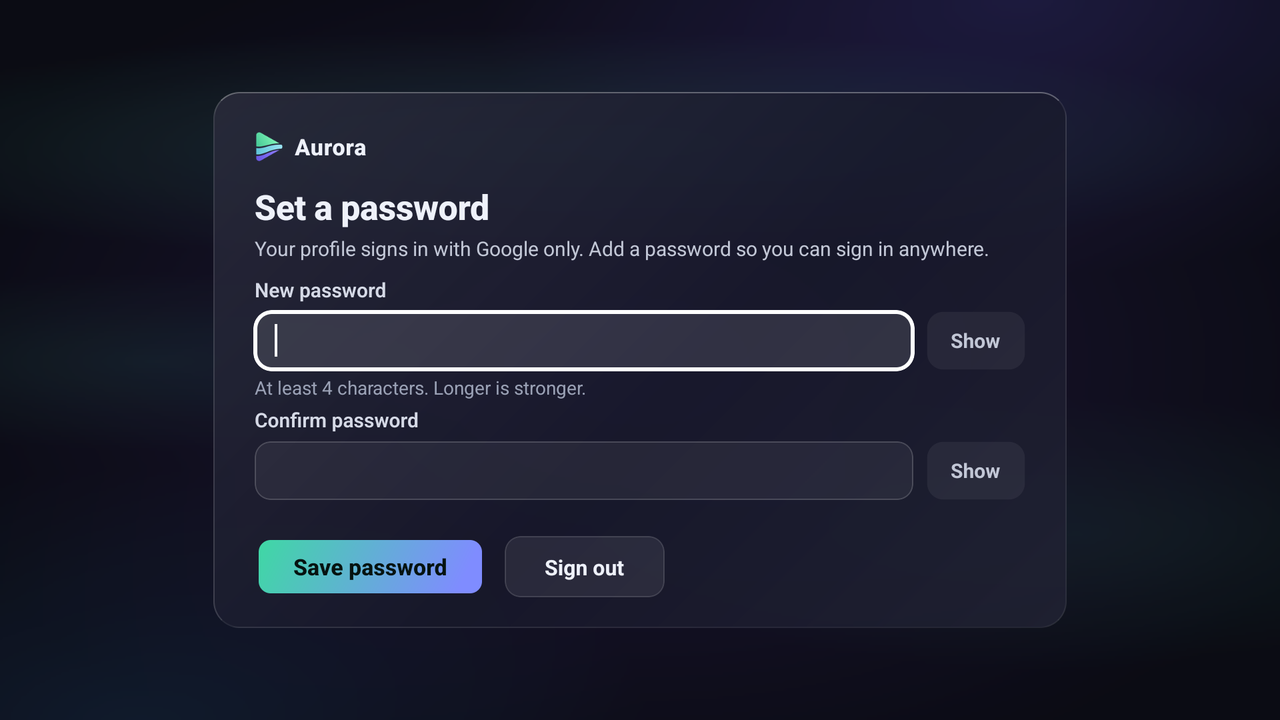
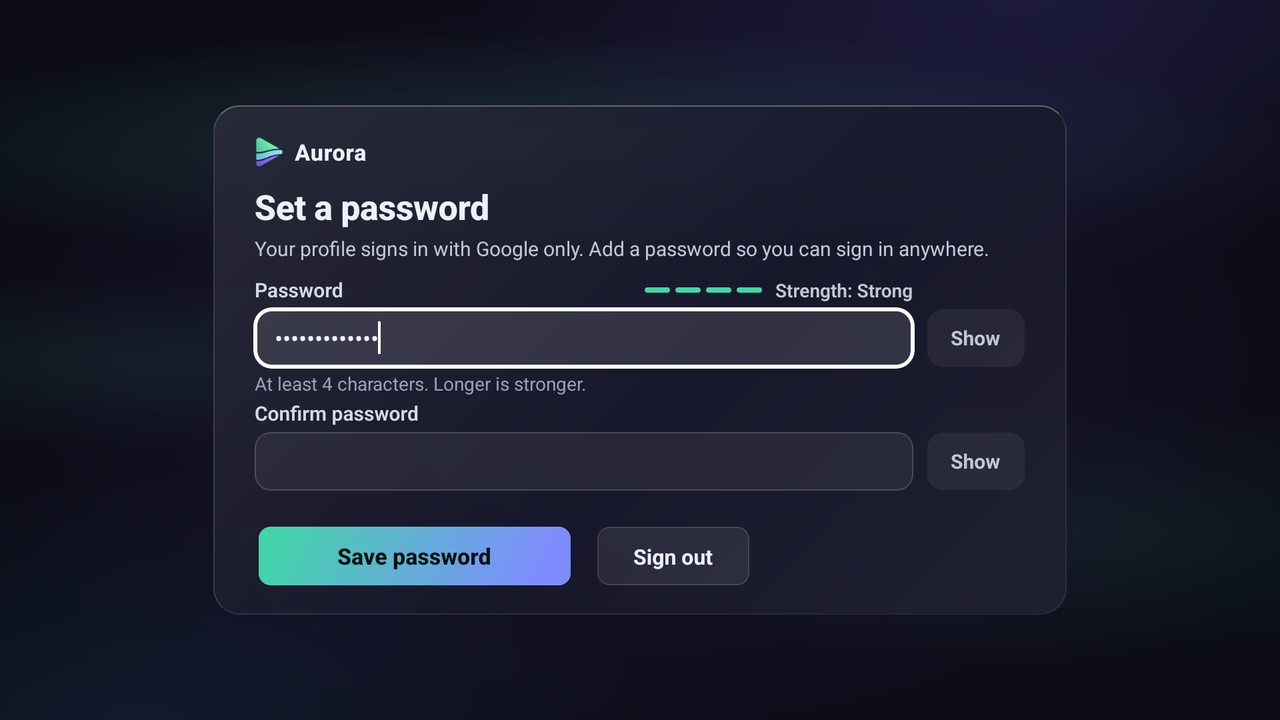
TV 5.8.2: sign-in polish after the design audit — inside the 5% title-safe area, one column of reset choices, "Strength: …" on the label line, equal button heights, "Shown on your profile.", Set a password labels its field Password; DOWN from the switch lands on the field (Mi TV checked)

diff --git a/tv-native/src/screens/authKit.tsx b/tv-native/src/screens/authKit.tsx
@@ -26,6 +26,7 @@ import {
   Text,
   TextInput,
   TextInputProps,
+  TVFocusGuideView,
   View,
   useWindowDimensions,
 } from 'react-native';
@@ -212,7 +213,9 @@ export function AuthShell({children, top, width = 840}: {children: React.ReactNo
 }
 
 /** "Sign in · Request access": two tabs; the lit one is the page you are on. */
-export function Switch({value, onChange}: {value: 'signin' | 'request'; onChange: (v: 'signin' | 'request') => void}) {
+/** `overFields`: the switch ends where the fields' boxes end (not over the
+ *  Show buttons), so DOWN from a tab lands on a field, not on Show (Mi TV). */
+export function Switch({value, onChange, overFields}: {value: 'signin' | 'request'; onChange: (v: 'signin' | 'request') => void; overFields?: boolean}) {
   const reduced = useReducedMotion();
   const tab = (k: 'signin' | 'request', label: string) => {
     const on = value === k;
@@ -231,7 +234,7 @@ export function Switch({value, onChange}: {value: 'signin' | 'request'; onChange
     );
   };
   return (
-    <View style={s.tabs} accessibilityRole="tablist">
+    <View style={[s.tabs, overFields && s.tabsOverFields]} accessibilityRole="tablist">
       {tab('signin', 'Sign in')}
       {tab('request', 'Request access')}
     </View>
@@ -264,8 +267,10 @@ type FieldProps = Omit<TextInputProps, 'ref'> & {
   help?: string | null;
   error?: string | null;
   secret?: boolean;
-  /** under the field, before the help (the strength hint) */
+  /** under the field, before the help */
   below?: React.ReactNode;
+  /** at the end of the label's row, over the box (the strength hint): costs no height */
+  aside?: React.ReactNode;
   /** the field this screen opens on: focused quietly once it is drawn */
   first?: boolean;
   /** the field's nativeID, for QA tools (fields are not counted controls) */
@@ -275,10 +280,16 @@ type FieldProps = Omit<TextInputProps, 'ref'> & {
 /** A labelled field. Password fields carry Show / Hide, a button of its own
  *  (RIGHT from the field). What was typed is never cleared by an error. */
 export const Field = forwardRef<FieldHandle, FieldProps>(function Field(
-  {label, help, error, secret, below, first, qaId, onFocus, onBlur, style, ...rest},
+  {label, help, error, secret, below, aside, first, qaId, onFocus, onBlur, style, ...rest},
   ref,
 ) {
-  const input = useRef<TextInput>(null);
+  const input = useRef<TextInput | null>(null);
+  // the field's input as a focus-guide destination (below)
+  const [inputNode, setInputNode] = useState<TextInput | null>(null);
+  const setInput = useCallback((v: TextInput | null) => {
+    input.current = v;
+    setInputNode(v);
+  }, []);
   const [on, setOn] = useState(false);
   const [shown, setShown] = useState(false);
   // false only for a moment: while a quiet focus lands (react-native-tvos
@@ -326,15 +337,22 @@ export const Field = forwardRef<FieldHandle, FieldProps>(function Field(
   const lift = useContext(LiftContext);
   const row = useRef<View>(null);
   return (
-    <View style={s.field}>
-      <Text style={s.label}>{label}</Text>
+    // A password field's row has two stops (the box, then Show). Coming from
+    // above or below, focus goes to the BOX: the guide hands it there, so DOWN
+    // from the tabs or the field above never lands on Show (Mi TV). LEFT /
+    // RIGHT inside the row move between the two as before.
+    <TVFocusGuideView style={s.field} destinations={secret && inputNode ? [inputNode] : undefined}>
+      <View style={[s.labelRow, secret && s.labelRowSecret]}>
+        <Text style={s.label}>{label}</Text>
+        {aside}
+      </View>
       <View style={s.boxRow} ref={row} collapsable={false}>
         <View style={[s.box, on && s.boxOn]}>
           {/* the focus ring (and the error edge) drawn OVER the box's own 1dp edge,
               so gaining focus never moves anything */}
           {on || error ? <View pointerEvents="none" style={[s.ringOver, !on && s.ringErr]} /> : null}
           <TextInput
-            ref={input}
+            ref={setInput}
             placeholderTextColor="rgba(154,161,181,0.75)"
             selectionColor="#8b7bff"
             cursorColor="#ffffff"
@@ -377,7 +395,7 @@ export const Field = forwardRef<FieldHandle, FieldProps>(function Field(
       <Text style={[s.help, !!error && s.err]} accessibilityLiveRegion={error ? 'polite' : 'none'} numberOfLines={2}>
         {note}
       </Text>
-    </View>
+    </TVFocusGuideView>
   );
 });
 
@@ -393,7 +411,7 @@ export function Strength({pw, personal}: {pw: string; personal?: Array<string | 
           <View key={i} style={[s.bar, i <= st.score && {backgroundColor: STRENGTH_COLORS[st.score]}]} />
         ))}
       </View>
-      <Text style={[s.meterText, {color: st.score <= 1 ? A.error : A.dim}]}>{st.label}</Text>
+      <Text style={[s.meterText, {color: st.score <= 1 ? A.error : A.dim}]}>{`Strength: ${st.label}`}</Text>
     </View>
   );
 }
@@ -442,7 +460,7 @@ export const MainButton = forwardRef<View, BtnProps & {claim?: string | null}>(f
       hasTVPreferredFocus={useMountValue(!!first)}
       accessibilityLabel={busy && busyLabel ? busyLabel : label}
       onPress={() => !busy && onPress()}
-      style={[s.main, grow && s.grow, busy && s.busy]}>
+      style={[s.btn, s.mainW, grow && s.grow, busy && s.busy]}>
       {/* the sweep on its own layer, inside the reserved ring border: drawn on the
           button itself it repeats into that border (a stripe at each end, Mi TV) */}
       <View style={s.mainFill} pointerEvents="none" />
@@ -468,7 +486,8 @@ export const PlainButton = forwardRef<View, BtnProps>(function PlainButton({labe
       hasTVPreferredFocus={useMountValue(!!first)}
       accessibilityLabel={label}
       onPress={() => !busy && onPress()}
-      style={[s.plain, grow && s.grow, busy && s.busy]}>
+      style={[s.btn, s.plainW, grow && s.grow, busy && s.busy]}>
+      <View style={[s.fill, s.plainFill]} pointerEvents="none" />
       <View style={s.btnInner}>
         {busy ? <ActivityIndicator color={A.text} size="small" /> : null}
         <Text style={s.plainText} numberOfLines={1}>
@@ -502,7 +521,11 @@ export const GoogleButton = forwardRef<View, BtnProps>(function GoogleButton({la
       hasTVPreferredFocus={useMountValue(!!first)}
       accessibilityLabel={label}
       onPress={() => !busy && onPress()}
-      style={[s.google, grow && s.grow, busy && s.busy]}>
+      style={[s.btn, s.googleW, grow && s.grow, busy && s.busy]}>
+      {/* Google's fill and 1dp edge on their own layer, inside the reserved ring
+          border: set on the button they replaced that border, and the button
+          came out 4dp shorter than Sign in beside it */}
+      <View style={[s.fill, s.googleFill]} pointerEvents="none" />
       <View style={s.btnInner}>
         {busy ? <ActivityIndicator color="#E3E3E3" size="small" /> : <GoogleG />}
         <Text style={s.googleText} numberOfLines={1}>
@@ -625,13 +648,13 @@ const s = StyleSheet.create({
   // calmer and lower: the sky dimmed a little, so the panel is what you see
   calm: {position: 'absolute', top: 0, left: 0, right: 0, bottom: 0, backgroundColor: 'rgba(8,9,16,0.12)'},
   scroll: {flex: 1},
-  scrollBody: {flexGrow: 1, justifyContent: 'center', alignItems: 'center', paddingHorizontal: 48, paddingVertical: 16},
+  scrollBody: {flexGrow: 1, justifyContent: 'center', alignItems: 'center', paddingHorizontal: 48, paddingVertical: 28}, // 5% title-safe top and bottom (27dp of 540)
   panel: {
     width: '100%',
     borderRadius: R.panel,
     paddingHorizontal: 30,
-    paddingTop: 20,
-    paddingBottom: 22,
+    paddingTop: 16,
+    paddingBottom: 18,
     backgroundColor: A.panel,
     experimental_backgroundImage: G_FILL,
     borderWidth: 1,
@@ -640,12 +663,13 @@ const s = StyleSheet.create({
     borderRightColor: 'rgba(255,255,255,0.07)',
     borderBottomColor: 'rgba(255,255,255,0.06)',
   },
-  head: {flexDirection: 'row', alignItems: 'center', justifyContent: 'space-between', marginBottom: 10, minHeight: 40},
+  head: {flexDirection: 'row', alignItems: 'center', justifyContent: 'space-between', marginBottom: 8, minHeight: 36},
   brand: {flexDirection: 'row', alignItems: 'center', gap: 8},
   beam: {width: 22, height: 22},
   brandText: {color: A.text, fontSize: 17, fontWeight: '800', letterSpacing: 0.35},
-  tabs: {flexDirection: 'row', gap: 6, padding: 4, borderRadius: R.control, backgroundColor: 'rgba(255,255,255,0.05)', borderWidth: 1, borderColor: 'rgba(255,255,255,0.10)'},
-  tab: {minHeight: 36, minWidth: 120, borderRadius: R.control - 4, alignItems: 'center', justifyContent: 'center', paddingHorizontal: 16},
+  tabs: {flexDirection: 'row', gap: 6, padding: 3, borderRadius: R.control, backgroundColor: 'rgba(255,255,255,0.05)', borderWidth: 1, borderColor: 'rgba(255,255,255,0.10)'},
+  tab: {minHeight: 32, minWidth: 120, borderRadius: R.control - 4, alignItems: 'center', justifyContent: 'center', paddingHorizontal: 16},
+  tabsOverFields: {marginRight: 84},
   tabOn: {backgroundColor: 'rgba(255,255,255,0.14)'},
   tabText: {color: A.dim, fontSize: 15, fontWeight: '600'},
   tabTextOn: {color: A.text, fontWeight: '700'},
@@ -653,8 +677,8 @@ const s = StyleSheet.create({
   title: {color: A.text, fontSize: 26, fontWeight: '800', letterSpacing: -0.2, lineHeight: 32},
   line: {color: A.dim, fontSize: 15, lineHeight: 21, marginTop: 4, maxWidth: 640},
   notice: {color: A.notice, fontSize: 15, fontWeight: '700', lineHeight: 21, marginTop: 4},
-  field: {marginBottom: 4},
-  label: {color: A.label, fontSize: 15, fontWeight: '600', marginBottom: 6},
+  field: {marginBottom: 2},
+  label: {color: A.label, fontSize: 15, fontWeight: '600'},
   boxRow: {flexDirection: 'row', alignItems: 'center', gap: 10},
   box: {flex: 1, minHeight: 44, borderRadius: R.control, backgroundColor: A.fieldBg, borderWidth: 1, borderColor: A.fieldEdge, justifyContent: 'center'},
   boxOn: {backgroundColor: 'rgba(255,255,255,0.11)'},
@@ -663,23 +687,31 @@ const s = StyleSheet.create({
   input: {minHeight: 40, paddingHorizontal: 14, paddingVertical: 0, color: A.text, fontSize: 18, textAlign: 'left'},
   reveal: {minHeight: 44, minWidth: 74, borderRadius: R.control, alignItems: 'center', justifyContent: 'center', paddingHorizontal: 12, backgroundColor: 'rgba(255,255,255,0.06)'},
   revealText: {color: A.dim, fontSize: 15, fontWeight: '700'},
-  help: {color: A.faint, fontSize: 14, lineHeight: 19, marginTop: 4, minHeight: 19},
+  help: {color: A.faint, fontSize: 14, lineHeight: 19, marginTop: 3, minHeight: 19},
   err: {color: A.error, fontWeight: '600'},
-  meter: {flexDirection: 'row', alignItems: 'center', gap: 10, marginTop: 7},
-  bars: {flex: 1, flexDirection: 'row', gap: 4},
+  labelRow: {flexDirection: 'row', alignItems: 'center', justifyContent: 'space-between', gap: 12, marginBottom: 4, minHeight: 20},
+  labelRowSecret: {paddingRight: 84}, // the Show button's width + gap: the hint stays over the box
+  meter: {flexDirection: 'row', alignItems: 'center', gap: 10},
+  bars: {width: 88, flexDirection: 'row', gap: 4},
   bar: {flex: 1, height: 4, borderRadius: 2, backgroundColor: 'rgba(255,255,255,0.14)'},
-  meterText: {fontSize: 14, fontWeight: '600', minWidth: 72, textAlign: 'right'},
+  meterText: {fontSize: 14, fontWeight: '600'},
   row: {flexDirection: 'row', alignItems: 'center', flexWrap: 'wrap'},
   grow: {flexGrow: 1},
   btnInner: {flexDirection: 'row', alignItems: 'center', justifyContent: 'center', gap: 10},
-  main: {minHeight: 46, minWidth: 170, borderRadius: R.control, justifyContent: 'center', paddingHorizontal: 26},
+  // every button: the same height and corners (the Focusable's 3dp ring border is
+  // reserved around each; what you see is the fill layer inside it)
+  btn: {minHeight: 50, borderRadius: R.control, justifyContent: 'center', paddingHorizontal: 24},
+  mainW: {minWidth: 240},
+  plainW: {minWidth: 120},
+  googleW: {minWidth: 240},
+  fill: {position: 'absolute', top: 0, left: 0, right: 0, bottom: 0, borderRadius: R.control - 3},
   mainFill: {position: 'absolute', top: 0, left: 0, right: 0, bottom: 0, borderRadius: R.control - 3, experimental_backgroundImage: MAIN_FILL},
+  plainFill: {backgroundColor: 'rgba(255,255,255,0.08)', borderWidth: 1, borderColor: 'rgba(255,255,255,0.14)'},
+  googleFill: {backgroundColor: '#131314', borderWidth: 1, borderColor: '#8E918F'},
   busy: {opacity: 0.7},
   mainText: {color: '#061310', fontSize: 17, fontWeight: '800'},
-  plain: {minHeight: 46, minWidth: 120, borderRadius: R.control, justifyContent: 'center', paddingHorizontal: 22, backgroundColor: 'rgba(255,255,255,0.08)', borderWidth: 1, borderColor: 'rgba(255,255,255,0.14)'},
   plainText: {color: A.text, fontSize: 16, fontWeight: '700'},
-  google: {minHeight: 46, borderRadius: R.control, justifyContent: 'center', paddingHorizontal: 22, backgroundColor: '#131314', borderWidth: 1, borderColor: '#8E918F'},
-  googleText: {color: '#E3E3E3', fontSize: 16, fontWeight: '600'},
+  googleText: {color: '#E3E3E3', fontSize: 17, fontWeight: '600'},
   linkTap: {minHeight: 40, borderRadius: 8, justifyContent: 'center', paddingHorizontal: 8},
   link: {color: A.link, fontSize: 15, fontWeight: '700'},
   check: {borderRadius: R.control, paddingVertical: 8, paddingHorizontal: 8, marginLeft: -11, alignSelf: 'flex-start'},
@@ -687,7 +719,7 @@ const s = StyleSheet.create({
   tick: {width: 24, height: 24, borderRadius: 6, borderWidth: 2, borderColor: 'rgba(255,255,255,0.45)', alignItems: 'center', justifyContent: 'center'},
   tickOn: {backgroundColor: A.mint, borderColor: A.mint},
   checkLabel: {color: A.text, fontSize: 16, fontWeight: '600'},
-  choice: {minHeight: 84, justifyContent: 'center', borderRadius: R.control, paddingVertical: 12, paddingHorizontal: 16, backgroundColor: 'rgba(255,255,255,0.04)', borderWidth: 1, borderColor: 'rgba(255,255,255,0.10)', marginBottom: 10},
+  choice: {minHeight: 66, justifyContent: 'center', borderRadius: R.control, paddingVertical: 10, paddingHorizontal: 16, backgroundColor: 'rgba(255,255,255,0.04)', borderWidth: 1, borderColor: 'rgba(255,255,255,0.10)'},
   choiceRow: {flexDirection: 'row', alignItems: 'center', gap: 14},
   choiceWords: {flex: 1, minWidth: 0},
   choiceTitle: {color: A.text, fontSize: 17, fontWeight: '700'},

diff --git a/tv-native/src/screens/SignIn.tsx b/tv-native/src/screens/SignIn.tsx
@@ -179,6 +179,7 @@ export default function SignIn({
   const tabs = view === 'signin' || view === 'request' ? (
     <Switch
       value={view}
+      overFields
       onChange={v => {
         setReturnTo(null);
         setView(v);
@@ -529,7 +530,7 @@ function RequestForm({
       <Title line={WORDS.requestLine(admin)}>{WORDS.requestTitle}</Title>
       <View style={as.cols}>
         <View style={as.col}>
-          <Field ref={refs.name} qaId="request.name" label={WORDS.name} value={f.name} onChangeText={set('name')} error={errors.name}
+          <Field ref={refs.name} qaId="request.name" label={WORDS.name} value={f.name} onChangeText={set('name')} error={errors.name} help={WORDS.nameHelp}
             autoCapitalize="words" textContentType="name" autoComplete="name" maxLength={24}
             returnKeyType="next" submitBehavior="submit" onSubmitEditing={() => refs.username.current?.focus()} />
           <Field ref={refs.username} qaId="request.username" label={WORDS.username} value={f.username} onChangeText={set('username')}
@@ -541,7 +542,7 @@ function RequestForm({
         </View>
         <View style={as.col}>
           <Field ref={refs.password} qaId="request.password" label={WORDS.password} secret value={f.password} onChangeText={set('password')}
-            error={errors.password} help={PASSWORD_HELP} below={<Strength pw={f.password} personal={[f.name, f.username, f.email]} />}
+            error={errors.password} help={PASSWORD_HELP} aside={<Strength pw={f.password} personal={[f.name, f.username, f.email]} />}
             textContentType="newPassword" autoComplete="new-password" maxLength={128}
             returnKeyType="next" submitBehavior="submit" onSubmitEditing={() => refs.confirm.current?.focus()} />
           <Field ref={refs.confirm} qaId="request.confirm" label={WORDS.confirm} secret value={f.confirm} onChangeText={set('confirm')}
@@ -615,7 +616,7 @@ function GoogleSignupForm({admin, signup, onBack, onSent}: {admin: string; signu
               setName(t);
               if (errors.name) setErrors(x => ({...x, name: undefined}));
             }}
-            error={errors.name} autoCapitalize="words" maxLength={24}
+            error={errors.name} help={WORDS.nameHelp} autoCapitalize="words" maxLength={24}
             returnKeyType="next" submitBehavior="submit" onSubmitEditing={() => pwRef.current?.focus()} />
         </View>
         <View style={as.col}>
@@ -624,7 +625,7 @@ function GoogleSignupForm({admin, signup, onBack, onSent}: {admin: string; signu
               setPassword(t);
               if (errors.password) setErrors(x => ({...x, password: undefined}));
             }}
-            error={errors.password} help={PASSWORD_HELP} below={<Strength pw={password} personal={[name, signup.email]} />}
+            error={errors.password} help={PASSWORD_HELP} aside={<Strength pw={password} personal={[name, signup.email]} />}
             textContentType="newPassword" autoComplete="new-password" maxLength={128}
             returnKeyType="next" submitBehavior="submit" onSubmitEditing={() => cfRef.current?.focus()} />
           <Field ref={cfRef} qaId="gsignup.confirm" label={WORDS.confirm} secret value={confirm}

diff --git a/tv-native/src/screens/Reset.tsx b/tv-native/src/screens/Reset.tsx
@@ -143,20 +143,19 @@ export default function Reset({
         {!options ? (
           <Waiting text="One moment…" />
         ) : (
-          <View style={{flexDirection: 'row', flexWrap: 'wrap', gap: 12}}>
+          // one column, every option the same height: UP / DOWN walks them in order
+          <View style={{gap: 8}}>
             {ways.map((w, i) => (
-              <View key={w} style={{width: '48.5%'}}>
-                <Choice uiId={`reset.way.${w}`} title={title(w)} line={line(w)} first={lastWay ? lastWay === w : i === 0} onPress={() => choose(w)} />
-              </View>
+              <Choice key={w} uiId={`reset.way.${w}`} title={title(w)} line={line(w)} first={lastWay ? lastWay === w : i === 0} onPress={() => choose(w)} />
             ))}
           </View>
         )}
-        <View style={{marginTop: 6, marginBottom: 14, maxWidth: 620}}>
-          <Body>{WORDS.elsewhere}</Body>
-        </View>
-        <Row>
+        <View style={{flexDirection: 'row', alignItems: 'center', gap: 18, marginTop: 14}}>
           <PlainButton uiId="reset.back" label={WORDS.back} onPress={onExit} />
-        </Row>
+          <View style={{flex: 1, minWidth: 0}}>
+            <Body>{WORDS.elsewhere}</Body>
+          </View>
+        </View>
       </View>
     );
   }
@@ -590,7 +589,7 @@ function NewPasswordStep({
         }}
         error={errors.newPassword}
         help={PASSWORD_HELP}
-        below={<Strength pw={fresh} personal={[token.name]} />}
+        aside={<Strength pw={fresh} personal={[token.name]} />}
         textContentType="newPassword"
         autoComplete="new-password"
         maxLength={128}

diff --git a/tv-native/src/screens/NewPassword.tsx b/tv-native/src/screens/NewPassword.tsx
@@ -179,7 +179,8 @@ export default function NewPassword({
             ref={freshRef}
             qaId="newpassword.new"
             first={!askCurrent}
-            label={WORDS.newPassword}
+            // a first password is "Password"; replacing one is "New password" (as on the website and phone)
+            label={mode === 'setup' ? WORDS.password : WORDS.newPassword}
             secret
             value={fresh}
             onChangeText={t => {
@@ -188,7 +189,7 @@ export default function NewPassword({
             }}
             error={errors.newPassword}
             help={PASSWORD_HELP}
-            below={<Strength pw={fresh} personal={[name]} />}
+            aside={<Strength pw={fresh} personal={[name]} />}
             textContentType="newPassword"
             autoComplete="new-password"
             maxLength={128}

diff --git a/tv-native/src/authFlow.ts b/tv-native/src/authFlow.ts
@@ -36,6 +36,7 @@ export const WORDS = {
   requestTitle: 'Request access',
   requestLine: (admin: string) => `${cap(admin)} approves new people. Once you're approved, sign in with the details you set here.`,
   name: 'Your name',
+  nameHelp: 'Shown on your profile.',
   username: 'Username',
   email: 'Email (optional)',
   confirm: 'Confirm password',
